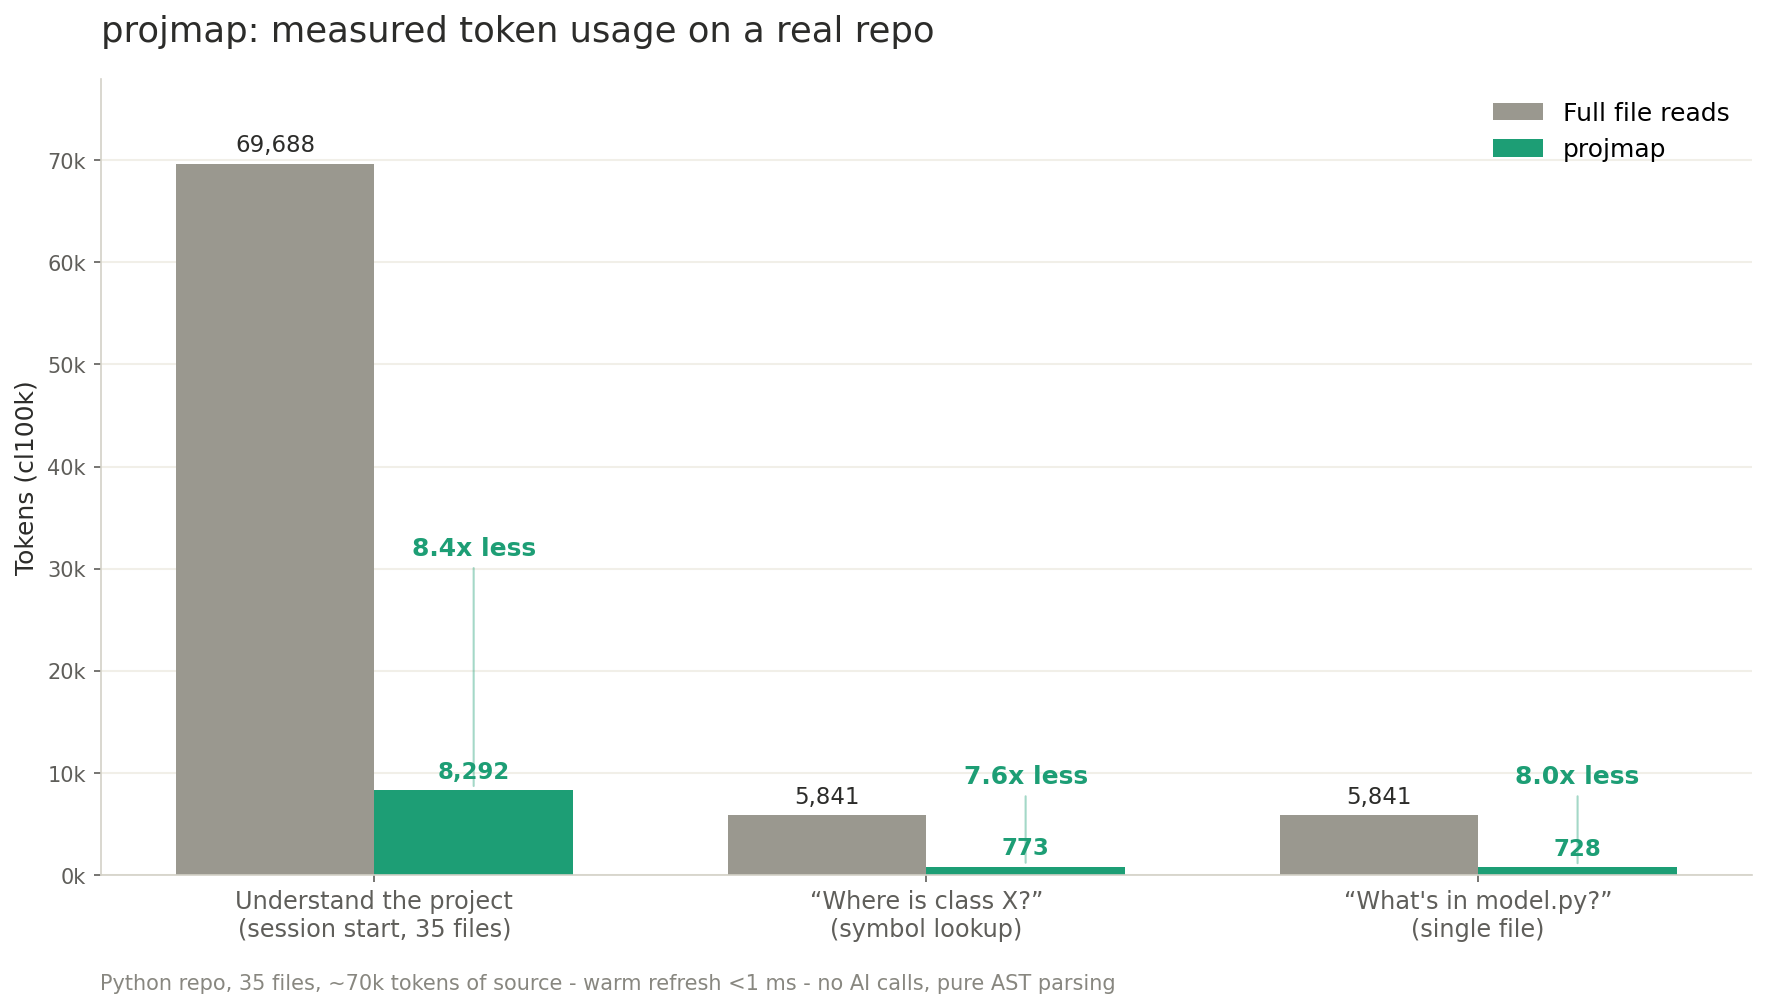
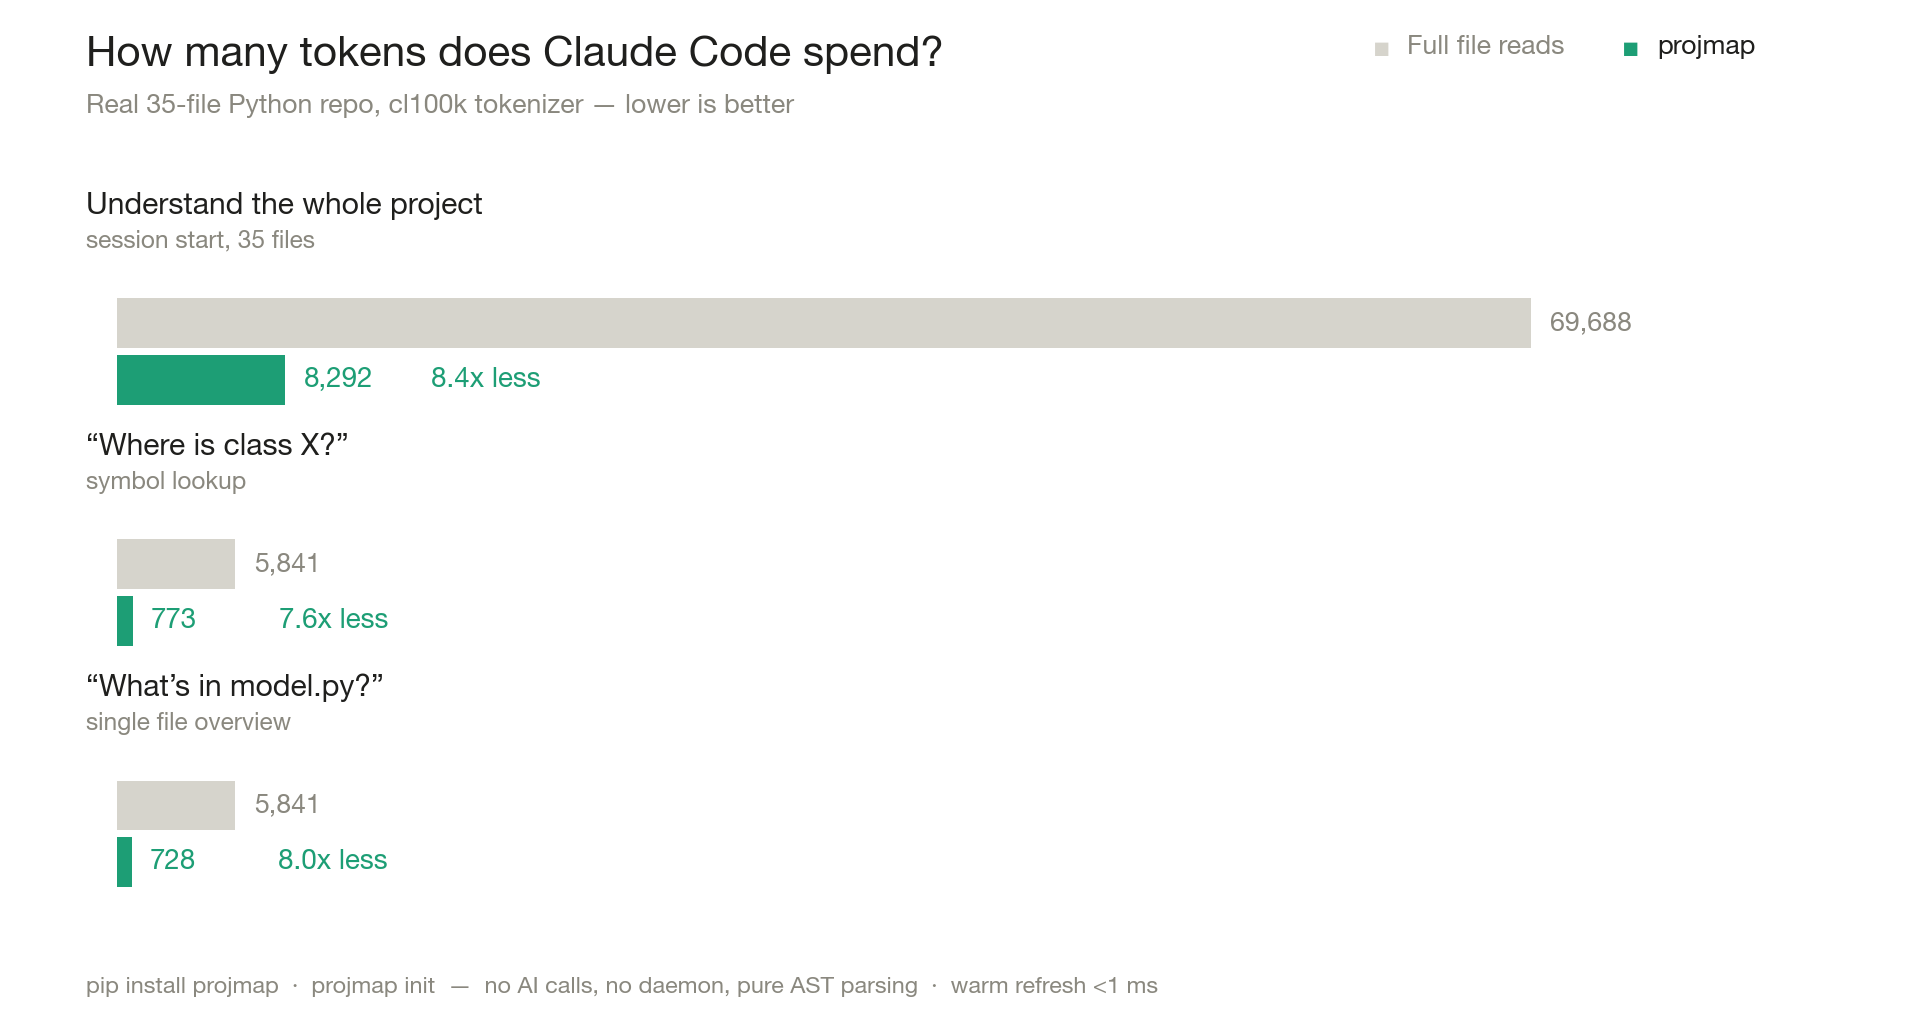
Redesign benchmark chart and feature it at the top of the README

diff --git a/README.md b/README.md
@@ -9,6 +9,10 @@
 
 Claude Code reads your files to understand your project — and on every session, that "understanding" phase burns through your usage limits. `projmap` gives Claude a compressed, always-fresh map of your codebase instead: function signatures, docstrings, routes, and constants, without the function bodies. Claude only opens a full file when it actually needs to edit it.
 
+<p align="center">
+  <img src="docs/benchmark.png" alt="Measured token usage on a real 35-file repo: understanding the project drops from 69,688 to 8,292 tokens (8.4x), symbol lookup from 5,841 to 773 (7.6x), single-file overview from 5,841 to 728 (8.0x)" width="92%">
+</p>
+
 ```
 Full file read:      ~2,300 tokens
 projmap skeleton:      ~250 tokens   (~9x compression on production code)
@@ -113,9 +117,7 @@ Everything else — function bodies — is dropped. That's where the compression
 
 ## Performance
 
-![Measured token usage: full file reads vs projmap](docs/benchmark.png)
-
-Measured on a real 35-file Python repo with the `cl100k` tokenizer: understanding
+Measured on a real 35-file Python repo with the `cl100k` tokenizer (chart above): understanding
 the whole project drops from ~70k to ~8k tokens, and typical "where is X?" /
 "what's in this file?" questions are answered for ~700-800 tokens instead of
 opening 5-6k-token files.